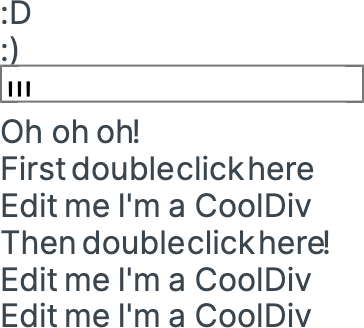
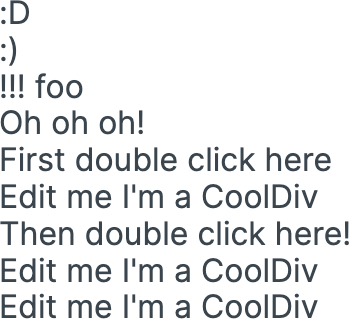
[ecu] Edit text on component App

Changed region(s): [[0.0, 0.1129, 1.0, 1.0], [0.0, 0.0, 0.086, 0.0846]]

diff --git a/app/src/App.tsx b/app/src/App.tsx
@@ -41,13 +41,10 @@ function App(props: AppPropsType) {
     <>
       <Div data-ecu="bPO8puWJxw:0">
         <Text data-ecu="bPO8puWJxw:0_0">:D</Text>
-        <Text data-ecu="bPO8puWJxw:0_1" />
       </Div>
       <Text data-ecu="bPO8puWJxw:1">:)</Text>
       <Text data-ecu="bPO8puWJxw:2">
-        !!!
-
-        foo
+        !!! foo
       </Text>
       <Text data-ecu="bPO8puWJxw:3">Oh oh oh!</Text>
       <Text data-ecu="bPO8puWJxw:4">First double click here</Text>
